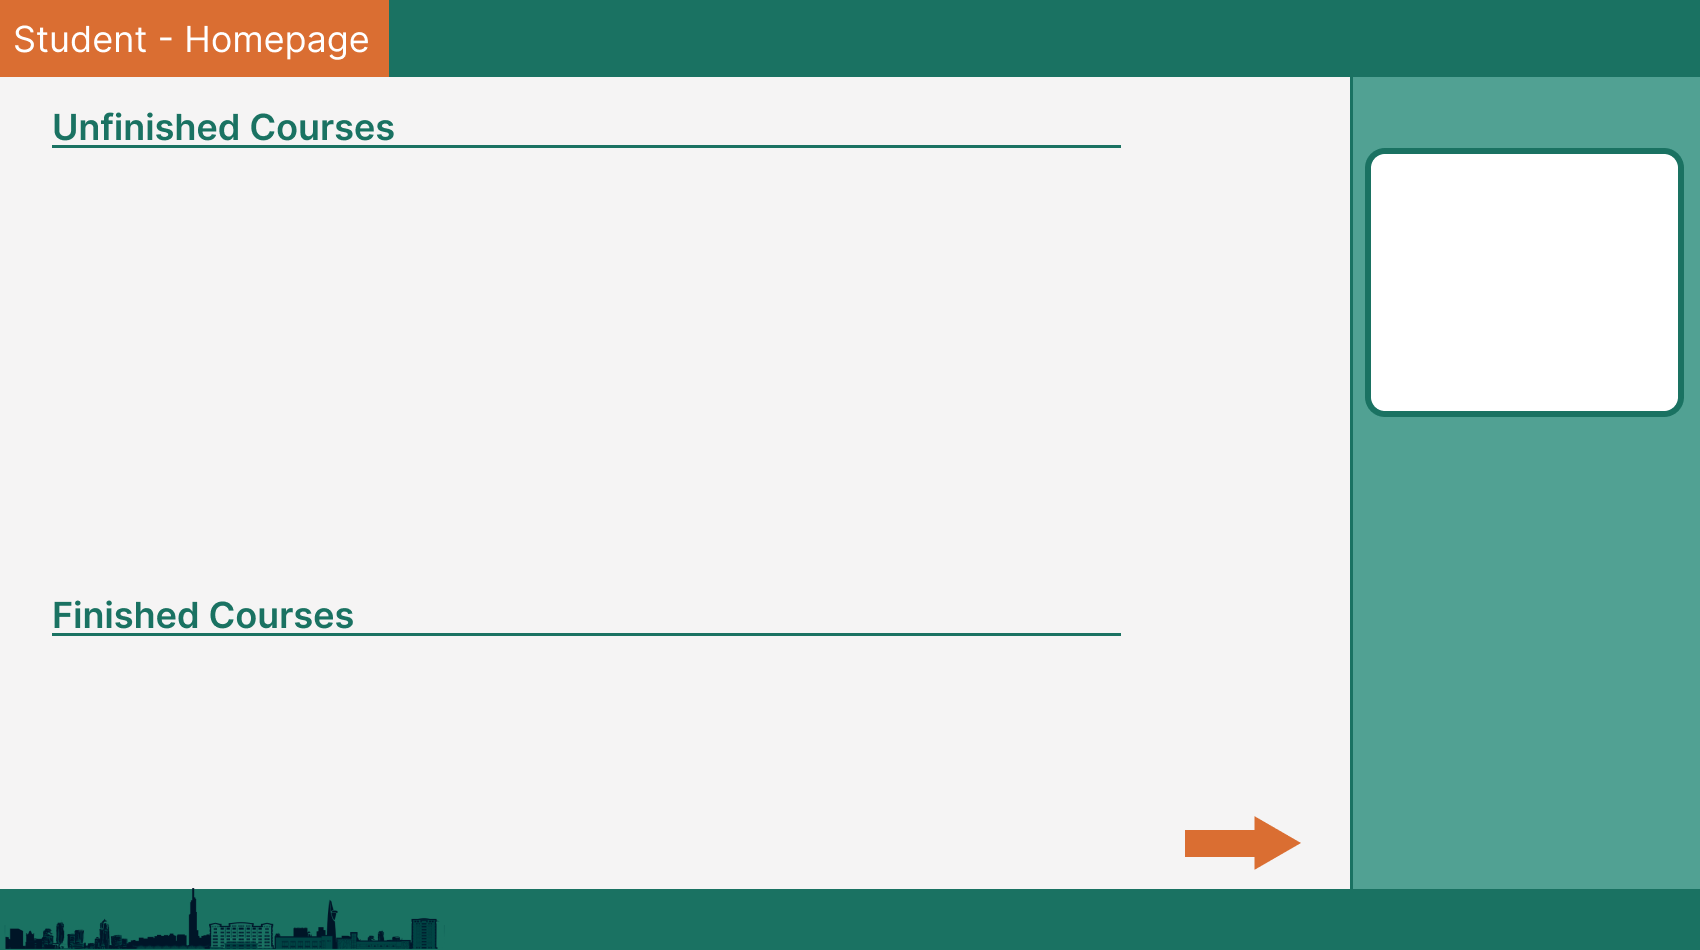
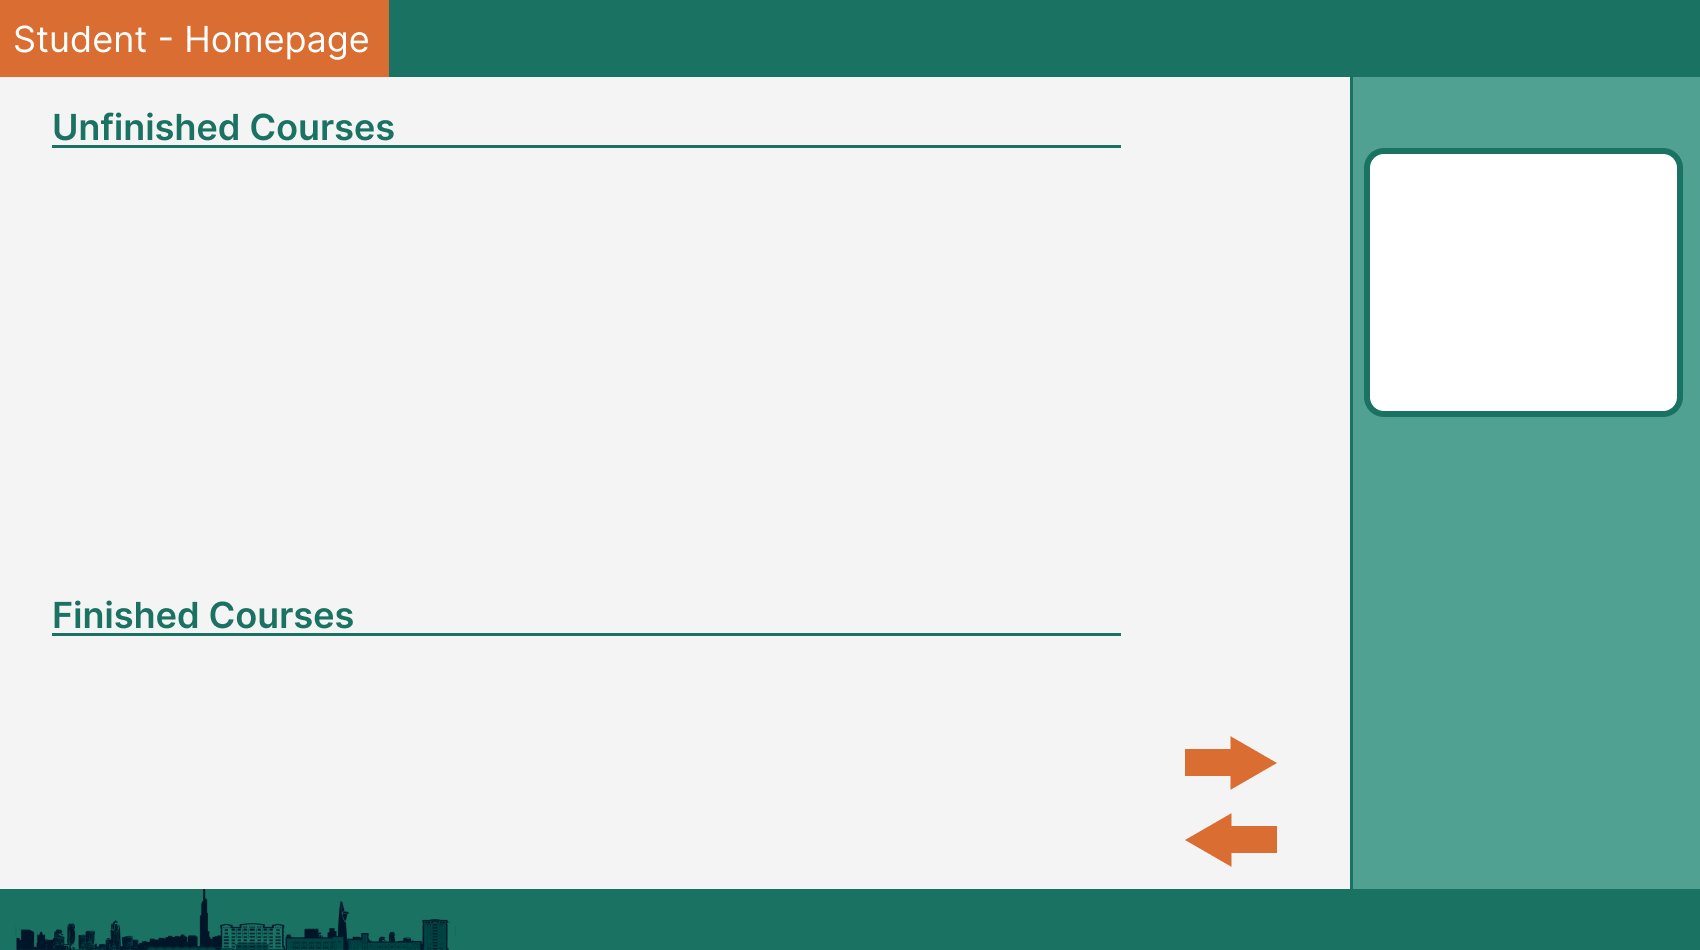
feat: Display the information of course student in another window. 80% of student activities have been finished

Changed region(s): [[0.0, 0.9463, 0.2806, 1.0], [0.6859, 0.8547, 0.7794, 0.9158], [0.6859, 0.7632, 0.7482, 0.8242]]

diff --git a/SFML/Activity.cpp b/SFML/Activity.cpp
@@ -83,21 +83,26 @@ void Activity::initHomePageStudentWindow(sf::RenderWindow &window)
     Text name(1446, 10, "Hello, " + user.fullname, font, sf::Color(255, 255, 255), 20);
     Text datetime(1446, 40, EF::getDateTime(), font, sf::Color(255, 255, 255), 20);
     Circle userIcon(1403, 35, 28, "Assets/userIcon.png", sf::Color(255, 250, 250));
+    Button nextPageBtn(1187.f, 732.f, 92.f, 62.f, "Next", font, sf::Color(218, 110, 50));
+    Button prevPageBtn(1187.f, 809.f, 92.f, 62.f, "Prev", font, sf::Color(218, 110, 50));
 
     int unfinshedCourse = 0, finishedCourse = 0;
     vector<courseButton> unfinBtn, finBtn;
-
-    for (int i = unfinshedCourse; i < user.listOfUnfinCourse.size(); i++) {
-        //float x, float y, Subject course, sf::Font font, sf::RenderWindow& window){
-        //courseButton newCourseBtn((float) (52 + 280 * (i - unfinshedCourse)), 175, "test", font);
-        courseButton newCourseBtn((float) (52 + 280 * (i - unfinshedCourse)), 175, user.listOfUnfinCourse[i], font);
-        unfinBtn.push_back(newCourseBtn);
-        
+    int displayFin = 0;
+    for (int i = 0; i < user.listOfUnfinCourse.size(); i++) {
+        if (i <= 3) {
+            courseButton newCourseBtn((float)(52 + 280 * (i - unfinshedCourse)), 175, user.listOfUnfinCourse[i], font);
+            unfinBtn.push_back(newCourseBtn);
+        }
+        else {
+            courseButton newCourseBtn((float)(52 + 280 * (i - unfinshedCourse - 4)), 386, user.listOfUnfinCourse[i], font);
+            unfinBtn.push_back(newCourseBtn);
+        }
     }
 
-    for (int i = unfinshedCourse; i < user.listOfUnfinCourse.size(); i++) {
+    for (int i = 0; i < user.listOfFinCourse.size(); i++) {
         //float x, float y, Subject course, sf::Font font, sf::RenderWindow& window){
-        courseButton newCourseBtn((float)(52 + 280 * (i - unfinshedCourse)), 685, user.listOfFinCourse[i], font);
+        courseButton newCourseBtn((float)(52 + 280 * (i % 4)), 670, user.listOfFinCourse[i], font);
         finBtn.push_back(newCourseBtn);
 
     }
@@ -112,6 +117,7 @@ void Activity::initHomePageStudentWindow(sf::RenderWindow &window)
 
     while (window.isOpen()) {
         sf::Event event;
+        long long tempFin = (displayFin + 4) > finBtn.size() ? finBtn.size() : (displayFin + 4);
         while (window.pollEvent(event)) {
             if (event.type == sf::Event::Closed)
                 window.close();  // Close 
@@ -123,7 +129,30 @@ void Activity::initHomePageStudentWindow(sf::RenderWindow &window)
                     type = 2; // initInformationWindow
                     return;
                 }
+
+                if (nextPageBtn.isClicked(mousePos)) {
+                    if (displayFin + 4 <= finBtn.size())
+                    displayFin += 4;
+                }
+
+                if (prevPageBtn.isClicked(mousePos)) {
+                    if (displayFin - 4 >= 0)
+                        displayFin -= 4;
+                }
                 
+                for (int i = 0; i < unfinBtn.size(); i++) {
+                    if (unfinBtn[i].isClicked(mousePos)) {
+                        std::cout << "User has click the unfinished button " << unfinBtn[i].cnt.courseId << std::endl;
+                        Activity2::courseInformationStudent(unfinBtn[i].cnt);
+                    }
+                }
+
+                for (int i = displayFin; i < tempFin; i++) {
+                    if (finBtn[i].isClicked(mousePos)) {
+                        std::cout << "User has click the finished button " << finBtn[i].cnt.courseId << std::endl;
+                        Activity2::courseInformationStudent(finBtn[i].cnt);
+                    }
+                }
             }
         }
 
@@ -136,8 +165,11 @@ void Activity::initHomePageStudentWindow(sf::RenderWindow &window)
         userIcon.draw(window);
         for (int i = 0; i < unfinBtn.size(); i++)
             unfinBtn[i].draw(window);
-        for (int i = 0; i < finBtn.size(); i++)
+
+        
+        for (int i = displayFin; i < tempFin; i++) {
             finBtn[i].draw(window);
+        }
         window.display();
     }
 
@@ -393,14 +425,14 @@ void Activity::initHomePageStaffWindow(sf::RenderWindow& window)
     Text newCalendar(1384, 169, calendar.text.getString().toAnsiString(), font, sf::Color(26, 114, 98), 25);
 
     Circle userIcon(1403, 40, 28, "Assets/userIcon.png", sf::Color(255, 250, 250));
-    Button createSYButn(89, 106, 393, 54.59, "Create School Year", font, sf::Color(144, 44, 44));
-    Button viewAllCoursesBtn(1375, 436, 300, 55, "View all courses", font, sf::Color(144, 44, 44));
+    Button createSYButn(89.f, 106.f, 393, 55.f, "Create School Year", font, sf::Color(144, 44, 44));
+    Button viewAllCoursesBtn(1375.f, 436.f, 300, 55, "View all courses", font, sf::Color(144, 44, 44));
     
 
     vector<Button> schoolYearButton; 
     for (int i = 0; i < min(schoolYearName.size(), 3LL); ++i)
     {
-        Button newButton(89.0f , 106.0F +(i + 1) * 200, 393.0f, 54.59, schoolYearName[i], font, sf::Color(144, 44, 44));
+        Button newButton(89.0f , 106.0F +(i + 1) * 200, 393.f, 54.f, schoolYearName[i], font, sf::Color(144, 44, 44));
         schoolYearButton.push_back(newButton); 
     }
     

diff --git a/SFML/Activity2.cpp b/SFML/Activity2.cpp
@@ -1,0 +1,47 @@
+#include "Activity2.h"
+
+void Activity2::courseInformationStudent(Subject subject)
+{
+    sf::RenderWindow windowNext(sf::VideoMode(1700, 950), "View Course", sf::Style::Close | sf::Style::Titlebar);
+   
+    sf::Font fontNext;
+    if (!fontNext.loadFromFile("TextFont/arial.ttf"))
+        std::cout << "Could not load the font" << std::endl;
+
+    sf::Texture textureNext;
+    if (!textureNext.loadFromFile("Assets/YourCourseStudent.png"))
+        std::cout << "Could not load the YourCourseStudent image" << std::endl;
+    std::cout << "Generate Your course student sucess" << std::endl;
+    sf::Sprite background(textureNext);
+
+    const sf::Color black = sf::Color(18, 2, 2);
+    const int textSize = 36;
+    Text courseId(110, 132, "Course Id: " + subject.courseId, fontNext, black, textSize);
+    Text courseName(110, 182, "Course name: " + subject.courseName, fontNext, black, textSize);
+    Text teacherName(110, 232, "Teacher name: " + subject.teacherName, fontNext, black, textSize);
+    Text credits(110, 282, "Number of credits: " + std::to_string(subject.credits), fontNext, black, textSize);
+    Text time(110, 332, "Time: " + subject.days + " - " + subject.time, fontNext, black, textSize);
+
+
+    while (windowNext.isOpen()) {
+        sf::Event event;
+        while (windowNext.pollEvent(event)) {
+            if (event.type == sf::Event::Closed)
+                windowNext.close();  // Close 
+            else if (event.type == sf::Event::MouseButtonPressed) {
+                sf::Vector2i mousePos = sf::Mouse::getPosition(windowNext);
+            }
+
+        }
+
+        windowNext.clear(sf::Color::White);
+        windowNext.draw(background);
+
+        courseId.draw(windowNext);
+        courseName.draw(windowNext);
+        teacherName.draw(windowNext);
+        credits.draw(windowNext);
+        time.draw(windowNext);
+        windowNext.display();
+    }
+}

diff --git a/SFML/Components.h b/SFML/Components.h
@@ -328,11 +328,14 @@ class courseButton {
 private:
     sf::RectangleShape shape;
     sf::Text courseId, courseName, teacherName, time, credits, seeMore;
+    
 
 public:
+    Subject cnt;
     courseButton() {}
 
     courseButton(float x, float y, const Subject infor, sf::Font& font) {
+        cnt = infor;
         const float width = 250.f, height = 186.f, thickness = 6.f;
         const sf::Color fillColor = sf::Color(245, 244, 244), outlineColor = sf::Color(81, 161, 147);
         

diff --git a/SFML/Course.h b/SFML/Course.h
@@ -50,7 +50,7 @@ public:
         this->setMaxStu(maxStu);
 
         scoreFile.readFile();
-        int stuNum = scoreFile.cnt.size();
+        long long stuNum = scoreFile.cnt.size();
         if (stuNum > this->getMaxStu()) {
             displayErrorExceedMaxStu();
         }

diff --git a/SFML/Activity2.h b/SFML/Activity2.h
@@ -1,0 +1,16 @@
+#pragma once
+#include "Subject.h"
+#include "Components.h"
+class Activity2
+{
+public:
+
+
+	Activity2() {
+
+	}
+
+	//courseInformationStudent(unfinBtn[i].cnt)
+	static void courseInformationStudent(Subject subject);
+};
+

diff --git a/SFML/Activity.h b/SFML/Activity.h
@@ -18,6 +18,7 @@
 #include "Class.h"
 #include "Course.h"
 #include "User.h"
+#include "Activity2.h"
 
 class Activity {
 public:
